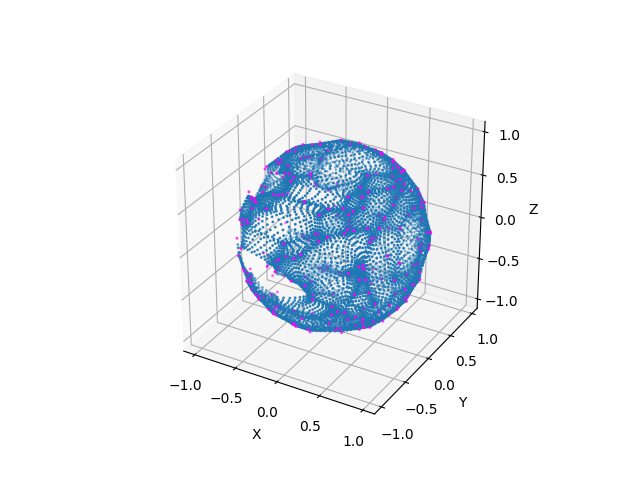
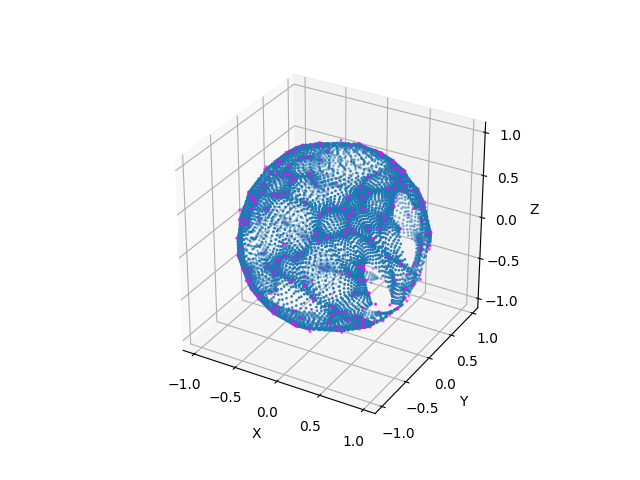
numbasom implemented with @jitclass

diff --git a/playgrounds/numba_npsom_perf_analysis/numbasom.py b/playgrounds/numba_npsom_perf_analysis/numbasom.py
@@ -1,7 +1,11 @@
 import numpy as np
-from numba import jit
+from numba import jit, objmode
 import matplotlib
 import matplotlib.pyplot as plt
+
+from collections import OrderedDict as od
+from numba import int64, float32, float64
+from numba.experimental import jitclass
 
 @jit(nopython=True)
 def som_activate(m, v):
@@ -22,6 +26,33 @@ def som_learn_batch(m, b, mat_coord, rg, lr):
     
     return mat
 
+
+spec = od({
+    'lr': float64,
+    'lr_min': float64,
+    'lr_max': float64,
+
+    'rg': float64,
+    'rg_min': float64,
+    'rg_max': float64,
+
+    'width': int64,
+    'height': int64,
+    'input_dim': int64,
+
+    'lr_step': float64,
+    'rg_step': float64,
+
+    'mat': float64[:,:,:],
+    'mat_coord': int64[:,:,:]
+})
+
+
+def index_helper(w, h) -> int64[:,:,:]:
+    im = np.unravel_index(np.arange(w * h).reshape(w, h), (w, h))
+    return np.array(np.stack(im, 2), dtype=np.int64)
+
+@jitclass(spec)
 class simplesom:
     def __init__(self, width,height, dimin, init_scale=2, init_offset = -0.5, init_epoch=600):
 
@@ -39,14 +70,16 @@ class simplesom:
         self.height = height
         self.input_dim = dimin
 
-        self.mat = (np.random.default_rng().random((self.width, self.height, self.input_dim), dtype=np.float64) + init_offset) * init_scale
-        idx_mat = np.unravel_index(np.arange(self.width * self.height).reshape(self.width, self.height), (self.width, self.height))
-        self.mat_coord = np.stack(idx_mat, 2)
+        randomm = np.random.rand(self.width, self.height, self.input_dim)
+        self.mat = (randomm + init_offset) * init_scale
+
+        with objmode(mc='int64[:,:,:]'):
+            mc = index_helper(self.width, self.height)
+        self.mat_coord = mc
 
 
-
-    def __str__(self):
-        return str(self.mat)
+    # def __str__(self):
+    #     return str(self.mat)
 
     def set_round_epochs(self, num):
         self.lr_step = ((self.lr - self.lr_min) / num)
@@ -58,7 +91,7 @@ class simplesom:
         return self.mat[x,y]
 
     def dump_weight_list(self):
-        return self.mat.reshape((self.width * self.height, self.input_dim))
+        return np.copy(self.mat).reshape((self.width * self.height, self.input_dim))
         
     
     def get_arg_closest(self, v):
@@ -69,47 +102,47 @@ class simplesom:
         flat_idx = np.argmin(np.sum((self.mat[:,:,:feats] - v) ** 2, axis=2))
         return (flat_idx // self.width, flat_idx % self.height)
 
-    def learn(self, v):
-        winner = self.get_arg_closest(v)
+    # def learn(self, v):
+    #     winner = self.get_arg_closest(v)
 
-        dists_mat = np.sum(np.abs(self.mat_coord - np.array(winner)), axis=2)
-        h_mat = np.exp(-(dists_mat * (1 / self.rg)) ** 2).reshape(self.width, self.height, 1)
-        self.mat = self.mat - ((self.mat - v)*h_mat * self.lr)
+    #     dists_mat = np.sum(np.abs(self.mat_coord - np.array(winner)), axis=2)
+    #     h_mat = np.exp(-(dists_mat * (1 / self.rg)) ** 2).reshape(self.width, self.height, 1)
+    #     self.mat = self.mat - ((self.mat - v)*h_mat * self.lr)
 
 
-        self.lr = max(self.lr_min, self.lr - self.lr_step)
-        self.rg = max(self.rg_min, self.rg - self.rg_step)
+    #     self.lr = max(self.lr_min, self.lr - self.lr_step)
+    #     self.rg = max(self.rg_min, self.rg - self.rg_step)
 
 
     def learn_batch(self, b):
-        nm = som_learn_batch(self.mat, np.array(b, dtype=np.float64), self.mat_coord, self.rg, self.lr)
+        nm = som_learn_batch(self.mat, b, self.mat_coord, self.rg, self.lr)
         self.mat = nm
 
         self.lr = max(self.lr_min, self.lr - self.lr_step * len(b))
         self.rg = max(self.rg_min, self.rg - self.rg_step * len(b))
     
 
-    def learn_more(self):
-        self.lr = min(self.lr_max, self.lr + self.lr_step)
-        self.rg = min(self.rg_max, self.rg + self.rg_step)
+    # def learn_more(self):
+    #     self.lr = min(self.lr_max, self.lr + self.lr_step)
+    #     self.rg = min(self.rg_max, self.rg + self.rg_step)
 
-    #dataset should be of shape(n, dim(input))
-    def error_to_dataset(self, dataset):
-        cumerr = 0
-        cumidx = 0
-        for d in dataset:
-            dist = self.mat[self.get_arg_closest(d)] - d
-            cumerr += np.sqrt(np.dot(dist, dist.T))
-            cumidx += 1
+    # #dataset should be of shape(n, dim(input))
+    # def error_to_dataset(self, dataset):
+    #     cumerr = 0
+    #     cumidx = 0
+    #     for d in dataset:
+    #         dist = self.mat[self.get_arg_closest(d)] - d
+    #         cumerr += np.sqrt(np.dot(dist, dist.T))
+    #         cumidx += 1
         
-        return cumerr / cumidx
+    #     return cumerr / cumidx
 
 
-    def error_to_dataset_max(self, dataset):
-        cumerr = 0
-        for d in dataset:
-            dist = self.mat[self.get_arg_closest(d)] - d
-            cumerr = max(np.sqrt(np.dot(dist, dist.T)), cumerr)
+    # def error_to_dataset_max(self, dataset):
+    #     cumerr = 0
+    #     for d in dataset:
+    #         dist = self.mat[self.get_arg_closest(d)] - d
+    #         cumerr = max(np.sqrt(np.dot(dist, dist.T)), cumerr)
             
         
-        return cumerr
+    #     return cumerr

diff --git a/playgrounds/numba_npsom_perf_analysis/playfast.py b/playgrounds/numba_npsom_perf_analysis/playfast.py
@@ -14,7 +14,7 @@ BATCH_SIZE = 64
 
 start = time.time()
 for _ in range(16384 // BATCH_SIZE):
-    model.learn_batch(sp(data, BATCH_SIZE))
+    model.learn_batch(np.array(sp(data, BATCH_SIZE)))
 end = time.time()
 
 print("Elapsed (with compilation) = %s" % (end - start))
@@ -38,4 +38,4 @@ ax.set_ylabel('Y')
 ax.set_zlabel('Z')
 
 # plt.show()
-plt.savefig(f"som_fast_donut.png")
+plt.savefig(f"som_fast_jitclass.png")

diff --git a/playgrounds/numba_npsom_perf_analysis/simplesom.py b/playgrounds/numba_npsom_perf_analysis/simplesom.py
@@ -24,8 +24,6 @@ class simplesom:
         idx_mat = np.unravel_index(np.arange(self.width * self.height).reshape(self.width, self.height), (self.width, self.height))
         self.mat_coord = np.stack(idx_mat, 2)
 
-
-
     def __str__(self):
         return str(self.mat)
 
